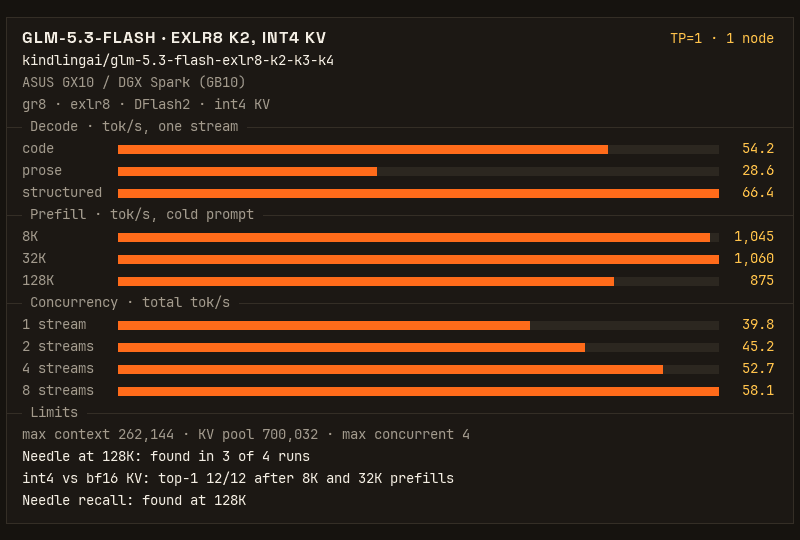
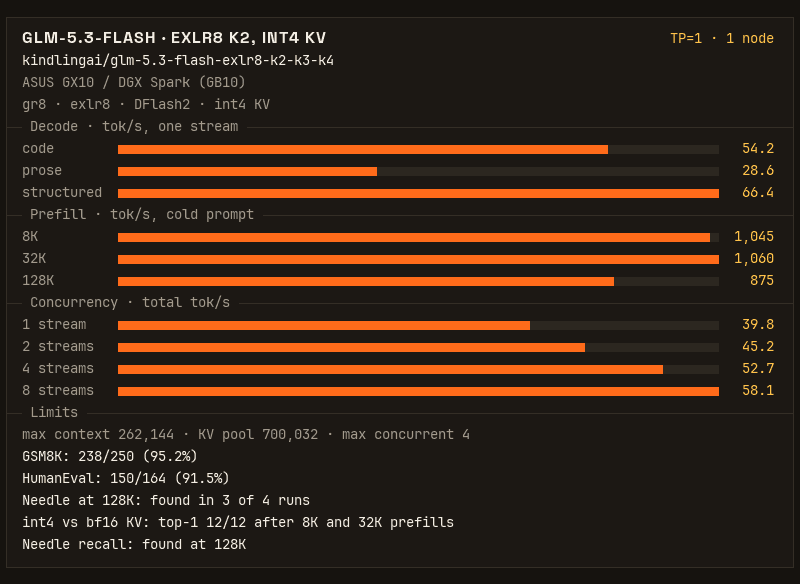
Card and README: GSM8K 238/250 and HumanEval 150/164 on the published image

diff --git a/README.md b/README.md
@@ -109,6 +109,7 @@ The card above is one `gr8 glm53f bench` run of the image's defaults (`kindling.
 | KV pool | 700,032 tokens (int4 latent and pooled indexer keys, 3.5 GB), shared by up to 4 sessions. A request past 32K decodes alone (gr8's `SHARE_LIMIT`) |
 | longest request | 262,144 tokens, prompt and output together (`MAX_MODEL_LEN`) |
 | from the prompt cache | 32K prompt 0.25 s and 240K prompt 5.7 s to the first token |
+| GSM8K and HumanEval | 238/250 (95.2%) and 150/164 (91.5%), the bench's `quality` stage on the published image |
 | int4 KV against bf16 KV | next-token KL after 8K and 32K prefills: mean 0.013, median 0.0004, top-1 12/12 |
 | lowest free memory | 3.9 GiB on Kindling Spark OS under a 672K prompt at `CAP` 700,032 (about 2 GiB less on DGX OS) |
 | a 672K prompt (with `MAX_MODEL_LEN` raised) | 901 s to the first token, 16 tok/s decode after it, 2.7 s from the prompt cache |
